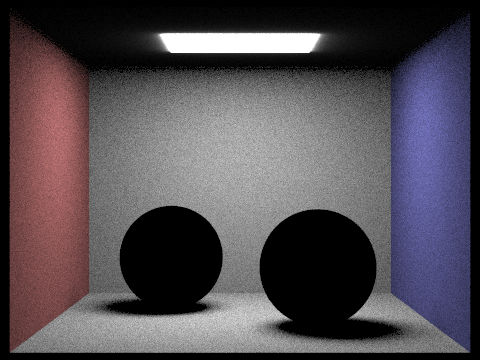
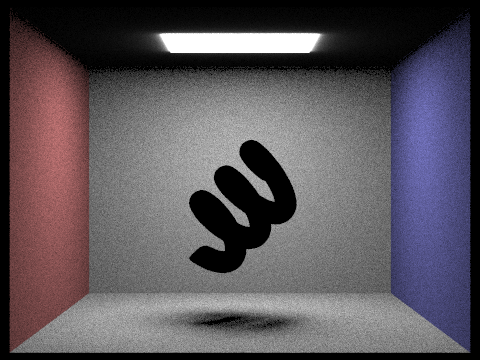
part 4 images added

diff --git a/hw3/index.html b/hw3/index.html
@@ -178,8 +178,167 @@
 				</table>
 			</div>
 			<h2>Part 4: Global Illumination</h2>
-			Lorem ipsum dolor sit amet, consectetur adipiscing elit, sed do eiusmod tempor incididunt ut labore et dolore magna aliqua. Ut enim ad minim veniam, quis nostrud exercitation ullamco laboris nisi ut aliquip ex ea commodo consequat. Duis aute irure dolor in reprehenderit in voluptate velit esse cillum dolore eu fugiat nulla pariatur. Excepteur sint occaecat cupidatat non proident, sunt in culpa qui officia deserunt mollit anim id est laborum.
+			1024 samples per pixel, 8 light rays, 5 light bounces
+			<div style="display: flex; flex-direction: column; align-items: center;">
+				<table style="width: 100%; text-align: center; border-collapse: collapse;">
+					<tr>
+						<td style="text-align: center;">
+							<img src="images/part4_1.png" width="400px" />
+							<figcaption>dae/sky/CBspheres_lambertian.dae with global illumination</figcaption>
+						</td>
+						<td style="text-align: center;">
+							<img src="images/part4_2.png" width="400px" />
+							<figcaption>dae/sky/CBcoil.dae with global illumination</figcaption>
+						</td>
+					</tr>
+				</table>
+			</div>
 
+			<div style="display: flex; flex-direction: column; align-items: center;">
+				<table style="width: 100%; text-align: center; border-collapse: collapse;">
+					<tr>
+						<td style="text-align: center;">
+							<img src="images/part4_3.png" width="400px" />
+							<figcaption>direct illumination only</figcaption>
+						</td>
+						<td style="text-align: center;">
+							<img src="images/part4_3b.png" width="400px" />
+							<figcaption>indirect illumination only</figcaption>
+						</td>
+					</tr>
+				</table>
+			</div>
+
+			<div style="display: flex; flex-direction: column; align-items: center;">
+				<table style="width: 100%; text-align: center; border-collapse: collapse;">
+					<tr>
+						<td style="text-align: center;">
+							<img src="images/part4_4.png" width="100px" />
+							<figcaption>m=0</figcaption>
+						</td>
+						<td style="text-align: center;">
+							<img src="images/part4_5.png" width="100px" />
+							<figcaption>m=1</figcaption>
+						</td>
+						<td style="text-align: center;">
+							<img src="images/part4_6.png" width="100px" />
+							<figcaption>m=2</figcaption>
+						</td>
+						<td style="text-align: center;">
+							<img src="images/part4_7.png" width="100px" />
+							<figcaption>m=3</figcaption>
+						</td>
+						<td style="text-align: center;">
+							<img src="images/part4_8.png" width="100px" />
+							<figcaption>m=4</figcaption>
+						</td>
+						<td style="text-align: center;">
+							<img src="images/part4_9.png" width="100px" />
+							<figcaption>m=5</figcaption>
+						</td>
+					</tr>
+					<tr>
+						<td style="text-align: center;">
+							<img src="images/part4_10.png" width="100px" />
+							<figcaption>m=0</figcaption>
+						</td>
+						<td style="text-align: center;">
+							<img src="images/part4_11.png" width="100px" />
+							<figcaption>m=1</figcaption>
+						</td>
+						<td style="text-align: center;">
+							<img src="images/part4_12.png" width="100px" />
+							<figcaption>m=2</figcaption>
+						</td>
+						<td style="text-align: center;">
+							<img src="images/part4_13.png" width="100px" />
+							<figcaption>m=3</figcaption>
+						</td>
+						<td style="text-align: center;">
+							<img src="images/part4_14.png" width="100px" />
+							<figcaption>m=4</figcaption>
+						</td>
+						<td style="text-align: center;">
+							<img src="images/part4_15.png" width="100px" />
+							<figcaption>m=5</figcaption>
+						</td>
+					</tr>
+				</table>
+			</div>
+			0.35 russian roulette probability
+			<div style="display: flex; flex-direction: column; align-items: center;">
+				<table style="width: 100%; text-align: center; border-collapse: collapse;">
+					<tr>
+						<td style="text-align: center;">
+							<img src="images/part4_16.png" width="200px" />
+							<figcaption>m=0</figcaption>
+						</td>
+						<td style="text-align: center;">
+							<img src="images/part4_17.png" width="200px" />
+							<figcaption>m=1</figcaption>
+						</td>
+						<td style="text-align: center;">
+							<img src="images/part4_18.png" width="200px" />
+							<figcaption>m=2</figcaption>
+						</td>
+					</tr>
+					<tr>
+						<td style="text-align: center;">
+							<img src="images/part4_19.png" width="200px" />
+							<figcaption>m=3</figcaption>
+						</td>
+						<td style="text-align: center;">
+							<img src="images/part4_20.png" width="200px" />
+							<figcaption>m=4</figcaption>
+						</td>
+						<td style="text-align: center;">
+							<img src="images/part4_21.png" width="200px" />
+							<figcaption>m=100</figcaption>
+						</td>
+					</tr>
+				</table>
+			</div>
+			dae/sky/wall-e.dae, russian roulette still enabled w/ 5 light bounces
+			<div style="display: flex; flex-direction: column; align-items: center;">
+				<table style="width: 100%; text-align: center; border-collapse: collapse;">
+					<tr>
+						<td style="text-align: center;">
+							<img src="images/part4_22.png" width="200px" />
+							<figcaption>1 sample per pixel</figcaption>
+						</td>
+						<td style="text-align: center;">
+							<img src="images/part4_23.png" width="200px" />
+							<figcaption>2 samples per pixel</figcaption>
+						</td>
+						<td style="text-align: center;">
+							<img src="images/part4_24.png" width="200px" />
+							<figcaption>4 samples per pixel</figcaption>
+						</td>
+						<td style="text-align: center;">
+							<img src="images/part4_25.png" width="200px" />
+							<figcaption>8 samples per pixel</figcaption>
+						</td>
+					</tr>
+					<tr>
+						<td style="text-align: center;">
+							<img src="images/part4_26.png" width="200px" />
+							<figcaption>16 samples per pixel</figcaption>
+						</td>
+						<td style="text-align: center;">
+							<img src="images/part4_27.png" width="200px" />
+							<figcaption>64 samples per pixel</figcaption>
+						</td>
+						<td style="text-align: center;">
+							<img src="images/part4_28.png" width="200px" />
+							<figcaption>256 samples per pixel</figcaption>
+						</td>
+						<td style="text-align: center;">
+							<img src="images/part4_29.png" width="200px" />
+							<figcaption>1024 samples per pixel</figcaption>
+						</td>
+					</tr>
+				</table>
+			</div>
 			<h2>Part 5: Adaptive Sampling</h2>
 			Lorem ipsum dolor sit amet, consectetur adipiscing elit, sed do eiusmod tempor incididunt ut labore et dolore magna aliqua. Ut enim ad minim veniam, quis nostrud exercitation ullamco laboris nisi ut aliquip ex ea commodo consequat. Duis aute irure dolor in reprehenderit in voluptate velit esse cillum dolore eu fugiat nulla pariatur. Excepteur sint occaecat cupidatat non proident, sunt in culpa qui officia deserunt mollit anim id est laborum.
 
